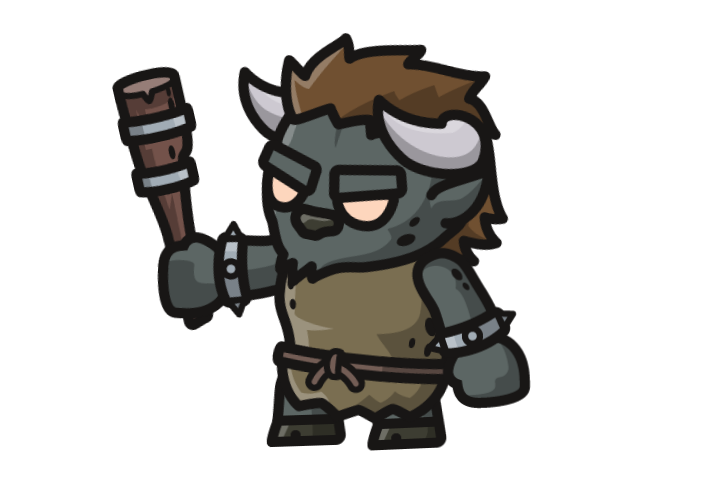
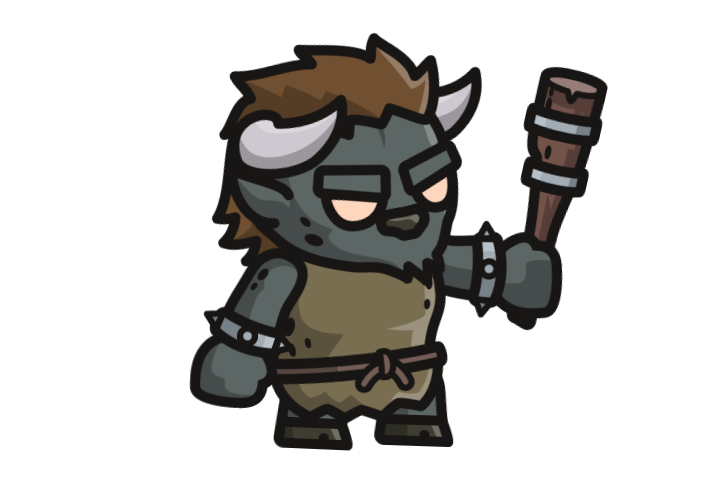
improve endboss & fix problems

Changed region(s): [[0.1528, 0.0612, 0.8556, 0.9184]]

diff --git a/models/endboss.class.js b/models/endboss.class.js
@@ -70,12 +70,27 @@ class Endboss extends MovableObject {
     "./img/endboss/Dying/Minotaur_03_Dying_013.png",
     "./img/endboss/Dying/Minotaur_03_Dying_014.png",
   ];
+  IMAGES_ATTACKING = [
+    "./img/endboss/Attacking/Minotaur_03_Attacking_000.png",
+    "./img/endboss/Attacking/Minotaur_03_Attacking_001.png",
+    "./img/endboss/Attacking/Minotaur_03_Attacking_002.png",
+    "./img/endboss/Attacking/Minotaur_03_Attacking_003.png",
+    "./img/endboss/Attacking/Minotaur_03_Attacking_004.png",
+    "./img/endboss/Attacking/Minotaur_03_Attacking_005.png",
+    "./img/endboss/Attacking/Minotaur_03_Attacking_006.png",
+    "./img/endboss/Attacking/Minotaur_03_Attacking_007.png",
+    "./img/endboss/Attacking/Minotaur_03_Attacking_008.png",
+    "./img/endboss/Attacking/Minotaur_03_Attacking_009.png",
+    "./img/endboss/Attacking/Minotaur_03_Attacking_010.png",
+    "./img/endboss/Attacking/Minotaur_03_Attacking_011.png",
+  ];
 
   width = 400;
   height = 300;
   positionY = 220;
   positionX = 2600;
-  hadFirstContact = false;
+  hasSpawned = false;
+  bottles = [];
 
   /**
    * Represents the endboss of the game.
@@ -88,6 +103,7 @@ class Endboss extends MovableObject {
     this.loadImages(this.IMAGES_WALKING);
     this.loadImages(this.IMAGES_HURTING);
     this.loadImages(this.IMAGES_DYING);
+    this.loadImages(this.IMAGES_ATTACKING);
     this.animate();
   }
 
@@ -107,7 +123,18 @@ class Endboss extends MovableObject {
    * Checks if endboss is spawning.
    */
   isEndbossSpawning() {
-    return world.reaper.positionX > 2500 && !this.hadFirstContact;
+    return (
+      world.reaper.positionX > 1600 &&
+      world.reaper.positionX < 1650 &&
+      !this.hasSpawned
+    );
+  }
+
+  /**
+   * Checks if endboss is attacking.
+   */
+  isEndbossAttacking() {
+    return this.positionX - world.reaper.positionX <= 200;
   }
 
   /**
@@ -115,7 +142,7 @@ class Endboss extends MovableObject {
    */
   spawningAnimation() {
     this.playAnimation(this.IMAGES_SPAWNING);
-    this.hadFirstContact = true;
+    this.hadSpawned = true;
   }
 
   /**
@@ -141,8 +168,13 @@ class Endboss extends MovableObject {
    * Defines what happens when endboss is walking.
    */
   walkingAnimation() {
-    this.playAnimation(this.IMAGES_WALKING);
-    this.moveLeft();
-    walkingSound.play();
+    this.positionX -= this.speed;
+    this.otherDirection = true;
+    if (this.isEndbossAttacking()) {
+      this.playAnimation(this.IMAGES_ATTACKING);
+    } else {
+      this.playAnimation(this.IMAGES_WALKING);
+      walkingSound.play();
+    }
   }
 }

diff --git a/styles/game-style.css b/styles/game-style.css
@@ -132,33 +132,40 @@ canvas {
 }
 
 @media screen and (orientation: portrait) and (pointer: coarse) {
-  .startscreen,
-  .gameOverScreen,
-  .endScreen,
-  .gamescreen {
-    width: 100vh;
-    height: 100vw;
+  .startscreen {
+    height: 100vh;
+    background-image: url("../img/game_background/3_screen_background-vertical.png");
+    background-position: top;
+  }
+
+  .infoRow {
+    display: none;
+  }
+
+  .legalRow {
+    margin-bottom: 40px;
+  }
+}
+
+@media screen and (pointer: coarse) {
+  .mobileButtonRow {
+    display: flex;
+    align-items: center;
+    justify-content: space-between;
+    position: absolute;
+    bottom: 20px;
+    left: 20px;
+    right: 20px;
+  }
+
+  .gameInfoRow {
     position: absolute;
     top: 0px;
-    bottom: 0px;
-    left: 0px;
-    right: 0px;
-    overflow: hidden;
+    right: 20px;
   }
 
-  canvas {
-    height: 98vw;
-  }
-
-  .overlay {
-    height: 100vw;
-    width: 100vh;
-  }
-
-  .infoDialog {
-    width: 60vh !important;
-    height: 70vw !important;
-    gap: 40px !important;
+  .keyInfoRow {
+    display: none;
   }
 }
 

diff --git a/models/throwable-object.class.js b/models/throwable-object.class.js
@@ -4,10 +4,10 @@ class ThrowableObject extends MovableObject {
   lastThrow;
 
   /**
-   * Represents the main character of the game.
+   * Represents a bottle which the reaper can throw.
    * @constructor
    * @param {int} x - The position of the object on the x-axis.
-   * @param {*} y - The position of the object on the y-axis.
+   * @param {int} y - The position of the object on the y-axis.
    */
   constructor(x, y) {
     super().loadImage("./img/elements/bottle.png");
@@ -25,7 +25,7 @@ class ThrowableObject extends MovableObject {
     this.speedY = 5;
     this.applyGravity();
     setStoppableInterval(() => {
-      this.positionX += 10;
+      this.positionX += 6;
     }, 25);
     this.lastThrow = new Date().getTime();
   }

diff --git a/styles/game-buttons.css b/styles/game-buttons.css
@@ -164,6 +164,44 @@
   }
 }
 
+@media screen and (pointer: coarse) {
+  .mobileButtonRow {
+    display: flex;
+    align-items: end;
+    justify-content: space-between;
+    position: absolute;
+    bottom: 20px;
+    left: 20px;
+    right: 20px;
+  }
+
+  .mobileButtonSection {
+    display: flex;
+    flex-direction: column;
+    align-items: center;
+    justify-content: center;
+    gap: 20px;
+  }
+
+  .mobileButton {
+    width: 50px;
+    height: 50px;
+  }
+
+  .soundButton,
+  .soundOnButton {
+    position: absolute;
+    top: 0px;
+    right: 0px;
+    width: 50px;
+    height: 50px;
+  }
+
+  .expandButton {
+    display: none;
+  }
+}
+
 @media only screen and (max-width: 960px) {
   .mobileButtonRow {
     display: flex;

diff --git a/styles/style.css b/styles/style.css
@@ -58,6 +58,10 @@ a:hover {
   display: none !important;
 }
 
+.verticalInfo {
+  display: none;
+}
+
 .closeButton {
   width: 60px;
   height: 60px;
@@ -93,11 +97,13 @@ a:hover {
 }
 
 @media screen and (orientation: portrait) and (pointer: coarse) {
-  body {
-    transform: rotate(90deg);
-    background-image: url("../img/game_background/3_screen_background-vertical.png") !important;
-    height: 100vw;
-    width: 100vh;
+  .verticalInfo {
+    display: flex;
+    height: 100vh;
+    align-items: center;
+    justify-content: center;
+    text-align: center;
+    padding: 60px;
   }
 }
 
@@ -115,7 +121,9 @@ a:hover {
     font-size: 13pt;
   }
 
-  p {
+  p,
+  ul,
+  ol {
     font-size: 10pt;
     hyphens: auto;
   }

diff --git a/models/skeleton.class.js b/models/skeleton.class.js
@@ -29,7 +29,7 @@ class Skeleton extends MovableObject {
   width = 150;
   positionY = 370;
   offsetY = 40;
-  offsetX = 40;
+  offsetX = 20;
 
   /**
    * Represents the small enemy of the game - a skeleton.
@@ -39,7 +39,7 @@ class Skeleton extends MovableObject {
     super().loadImage(
       "./img/skeleton/Walking/0_Skeleton_Warrior_Walking_000.png"
     );
-    this.positionX = 300 + Math.random() * 2200;
+    this.positionX = 300 + Math.random() * 2500;
     this.speed = 0.25 + Math.random() * 0.4;
     this.loadImages(this.IMAGES_WALKING);
     this.animate();

diff --git a/index.html b/index.html
@@ -40,6 +40,9 @@
         <button class="helpButton" onclick="showHelpDialog()"></button>
         <button class="startButton" onclick="init('startscreen')"></button>
       </div>
+      <div class="verticalInfo">
+        <h3>If you want to play the game please turn your phone!</h3>
+      </div>
       <div class="legalRow">
         <a href="legal/impressum.html">Impressum</a>
         <a href="legal/datenschutz.html">Datenschutzerklärung</a>

diff --git a/js/game.js b/js/game.js
@@ -128,6 +128,13 @@ document.addEventListener("touchend", (e) => {
 });
 
 /**
+ * Event listener that disables contextmenu.
+ */
+document.addEventListener("contextmenu", function (e) {
+  e.preventDefault();
+});
+
+/**
  * Request the fullscreen options for different browsers.
  */
 function requestFullscreen(element) {

diff --git a/models/coin.class.js b/models/coin.class.js
@@ -13,7 +13,7 @@ class Coin extends MovableObject {
   constructor() {
     super();
     this.loadImage("./img/elements/coin.png");
-    this.positionX = 700 + Math.random() * 1300;
+    this.positionX = 700 + Math.random() * 1800;
     this.positionY = 370 + Math.random() * 50;
   }
 }
